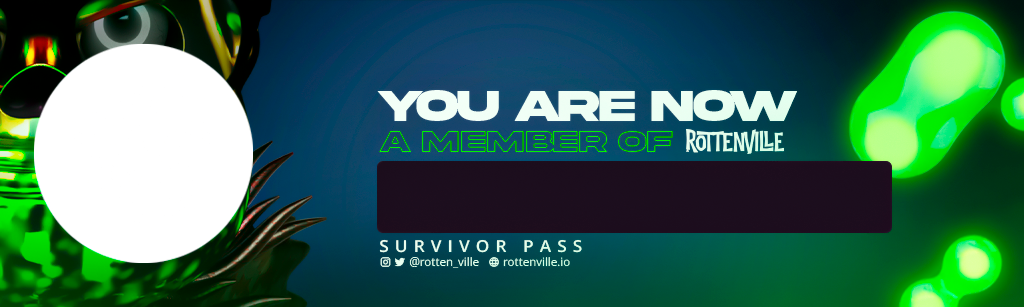
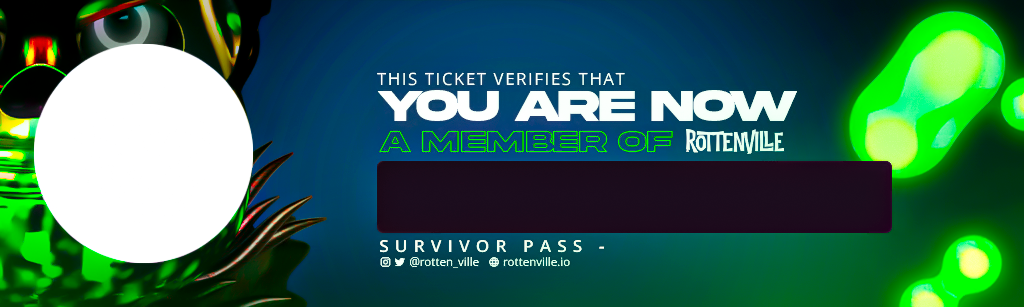
Update Welcome

diff --git a/database/conectors/welcomeMessage.js b/database/conectors/welcomeMessage.js
@@ -37,6 +37,10 @@ async function secondStep(inImage, name, username) {
     .font("Helvetica-Bold", 40)
     .drawText(6, 212, `${name}`, "North")
     .draw([`image Over 47,55 0,0 ${inImage}`])
+    .fill("#34e637")    
+    .font("Helvetica", 20)
+    .drawText(16, 262, `${name}`, "North")
+    .draw([`image Over 47,55 0,0 ${inImage}`])
     .write(`database/multimedia/images/magik/exports/${username}.png`, function (err) {
       console.log("Done! SecondStep");
       if (err) console.log("Error!: " + err);
